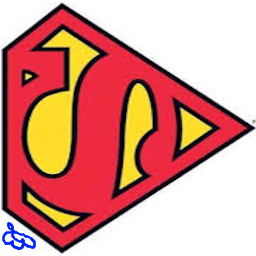
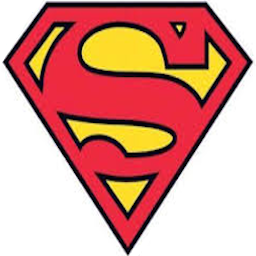
Issue #32: now flipping when loading from .png

diff --git a/js_ios/GLToolsSwift.swift b/js_ios/GLToolsSwift.swift
@@ -133,8 +133,11 @@ extension GLTools {
   // Install UIImage as OpenGL texture; return texture id, and size
   //
   public class func installTexture(image:UIImage, contextName:String = "unknown") -> (GLuint,CGPoint,Bool) {
+    
     let error:NSErrorPointer = nil
-    let textureInfo = GLKTextureLoader.textureWithCGImage(image.CGImage,options:nil,error:error)
+    let options = [GLKTextureLoaderOriginBottomLeft : true]
+    
+    let textureInfo = GLKTextureLoader.textureWithCGImage(image.CGImage,options:options,error:error)
     ASSERT(error == nil,"failed to install texture; \(error)")
     Texture.allocId(textureInfo.name,context:"GLToolsAux.installTexture name '\(contextName)'")
   	let alphaInfo = textureInfo.alphaState

diff --git a/js_ios/View.swift b/js_ios/View.swift
@@ -75,10 +75,8 @@ public class View : NSObject {
       if (constructCachedContent()) {
         renderer.resetOpenGLState()
       }
-      renderer.verticalFlipFlag = true
       renderer.transform = transform
       plotCachedTexture()
-      renderer.verticalFlipFlag = false
     } else {
       renderer.transform = transform
       plotHandler(self)
@@ -175,6 +173,7 @@ public class View : NSObject {
   
   private func plotCachedTexture() {
     let texWindow = CGRect(0,0,self.bounds.width,self.bounds.height)
+		let renderer = Renderer.sharedInstance()
     let sprite = GLSprite(texture:self.cachedTexture,window:texWindow,program:nil)
     sprite.render(CGPoint.zero)
   }

diff --git a/js_ios/Renderer.swift b/js_ios/Renderer.swift
@@ -28,7 +28,6 @@ public class Renderer : NSObject {
 	public var containerSize : CGPoint!
   // The size of the default viewport (to restore to if it gets changed)
   public var defaultViewportSize : CGPoint!
-	public var verticalFlipFlag = false
 	// Projection matrix identifier; changes whenever it's determined a new matrix needs to be constructed
   public var projectionMatrixId = 10
   public var transform : CGAffineTransform = CGAffineTransformIdentity {

diff --git a/js_ios/DebugToolsSwift.swift b/js_ios/DebugToolsSwift.swift
@@ -66,6 +66,10 @@ public class DebugTools : NSObject {
     return point.description
   }
 
+  public class func dSize(size:CGSize) -> String {
+    return CGPoint(size.width,size.height).description
+  }
+
   public class func dDouble(value:Double,format:String? = nil) -> String {
     let f = format ?? "%8.2f "
     

diff --git a/js_ios/GLSprite.m b/js_ios/GLSprite.m
@@ -35,24 +35,15 @@
   CGPoint p1 = CGPointMake(p2.x,p0.y);
   CGPoint p3 = CGPointMake(p0.x,p2.y);
   
-  CGPoint  t0 = CGPointMake(_textureWindow.origin.x /  [self.texture width],
+  // Textures loaded from xxx.png have been flipped vertically, and those generated
+  // by rendering to FBO have a similarly flipped orientation
+  
+  CGPoint  t3 = CGPointMake(_textureWindow.origin.x /  [self.texture width],
                             CGRectGetMaxY(_textureWindow) /  [_texture height] );
-  CGPoint  t2 = CGPointMake(CGRectGetMaxX(_textureWindow) /  [self.texture width],
+  CGPoint  t1 = CGPointMake(CGRectGetMaxX(_textureWindow) /  [self.texture width],
                             _textureWindow.origin.y /  [_texture height]);
-  CGPoint  t1 = CGPointMake(t2.x, t0.y);
-  CGPoint  t3 = CGPointMake(t0.x, t2.y);
-  
-  // If we are using a texture created by rendering to an FBO, we must flip it vertically;
-  // see  http://stackoverflow.com/questions/26726804/opengl-es-2-0-render-to-texture-coordinate-system
-  
-  if ([[Renderer sharedInstance] verticalFlipFlag]) {
-    CGPoint s0 = t0;
-    CGPoint s1 = t1;
-    t0 = t3;
-    t1 = t2;
-    t3 = s0;
-    t2 = s1;
-  }
+  CGPoint  t2 = CGPointMake(t1.x, t3.y);
+  CGPoint  t0 = CGPointMake(t3.x, t1.y);
   
   int cursor = 0;
 #undef M

diff --git a/js_ios/DebugTools.h b/js_ios/DebugTools.h
@@ -2,11 +2,13 @@
 // Convenience methods to call swift methods from (Debug only) Objective-c code
 #define dRect(rect) [DebugTools dRect:rect]
 #define dPoint(point) [DebugTools dPoint:point]
+#define dSize(cgsize) [DebugTools dSize:cgsize]
 #define dDouble(value) [DebugTools dDouble:value format:nil]
 #define dBool(value) [DebugTools dBoolean:value]
 #define dBits(value) [DebugTools dBits:value]
 #define dFloats(floats,len) [DebugTools dFloats:floats length:len]
 #define dInts(ints,len) [DebugTools dInts:ints length:len]
 #define dTransform(t) [DebugTools dTransform:t]
+#define dImage(image) [DebugTools dImage:image]
 
 #endif
